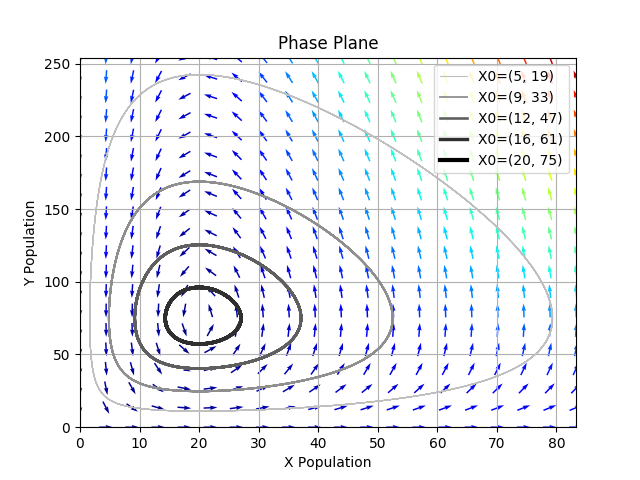
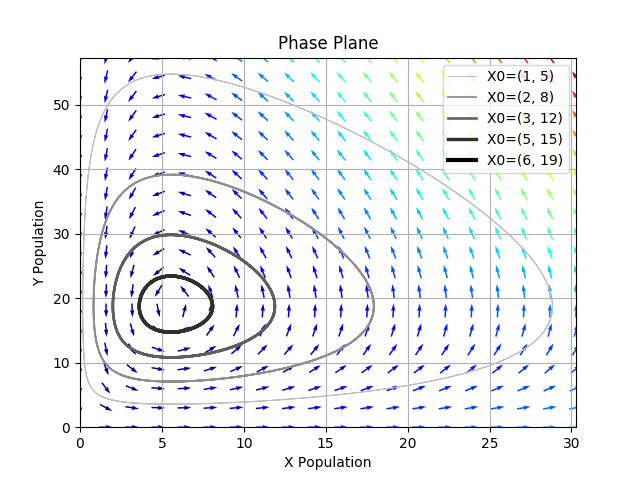
bug fix

diff --git a/lotkavolterramodel.py b/lotkavolterramodel.py
@@ -18,11 +18,11 @@ def lv_plot(a,p,b,q,X,Y,t0,tf,tdi):
     vals.b = b
     vals.q = q
 
-    X_f0 = array([0. , 0.])
-    X_f1 = array([b/q, a/p])
+    cp1 = array([0. , 0.])
+    cp2 = array([b/q, a/p])
 
-    A_f0 = Jac(X_f0)
-    A_f1 = Jac(X_f1)
+    A_f0 = Jac(cp1) #these are just 0
+    A_f1 = Jac(cp2)
 
     #EIGENVALS  +/- i*sqrt(b*a)
     lambda1, lambda2 = linalg.eigvals(A_f1)
@@ -55,7 +55,7 @@ def lv_plot(a,p,b,q,X,Y,t0,tf,tdi):
     f2 = pl.figure()
 
     for v, col in zip(v, vc):
-        X0 = v * X_f1
+        X0 = v * cp2
         X = integrate.odeint(dX_dt, X0, t)
         pl.plot(X[:,0], X[:,1], lw=3*v, color=col, label='X0=(%.f, %.f)' % ( X0[0], X0[1]) )
 
